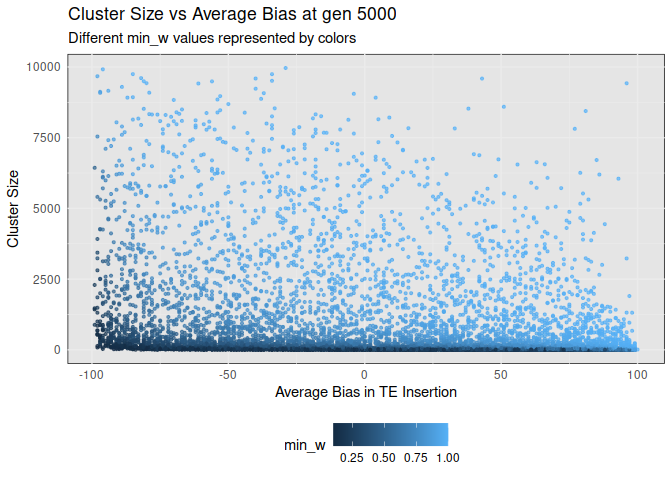
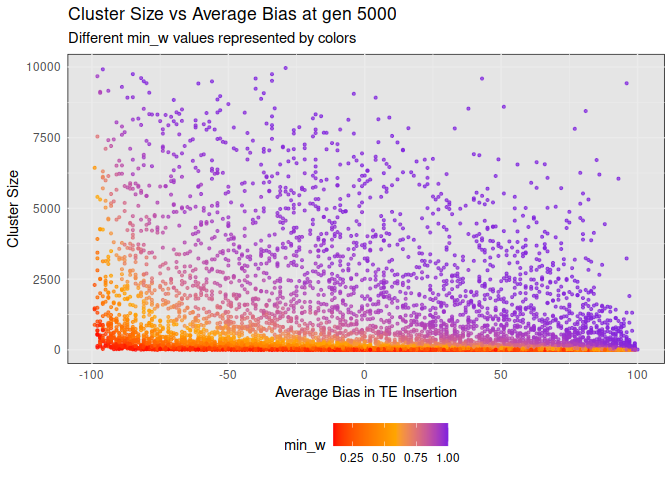
updated graph

diff --git a/Simulation-Results_Files/simulation_storm/sim_storm_minm_fit.md b/Simulation-Results_Files/simulation_storm/sim_storm_minm_fit.md
@@ -14,7 +14,6 @@ Shashank Pritam
   - [<span class="toc-section-number">3.1</span> Data
     Loading](#data-loading)
   - [<span class="toc-section-number">3.2</span> Plot 1](#plot-1)
-  - [<span class="toc-section-number">3.3</span> Plot 2](#plot-2)
 
 ## Introduction
 
@@ -62,10 +61,7 @@ library(tidyverse)
 <summary>Code</summary>
 
 ``` r
-library(RColorBrewer)
 library(ggplot2)
-library(patchwork)
-library(dplyr)
 theme_set(theme_bw())
 ```
 
@@ -132,49 +128,31 @@ df_gen_5000 <- df[df$gen == 5000,]
 <summary>Code</summary>
 
 ``` r
-# Plot avbias vs sampleid (Cluster Size) with min_w as color
 g_avbias_cluster_size <- ggplot(df_gen_5000, aes(x = avbias, y = sampleid, color = min_w)) +
   geom_point(alpha = 0.7, size = 0.8) +
   ylab("Cluster Size") +
   xlab("Average Bias in TE Insertion") +
-  labs(title = "Cluster Size vs Average Bias at gen 5000",
-       subtitle = "Different min_w values represented by colors") +
-  scale_color_gradient(name = "min_w") +
+  labs(
+    title = "Cluster Size vs Average Bias at gen 5000",
+    subtitle = "Different min_w values represented by colors"
+  ) +
+  scale_color_gradient2(
+    name = "min_w",
+    low = "red", 
+    mid = "orange", 
+    high = "blue", 
+    midpoint = median(df_gen_5000$min_w, na.rm = TRUE)
+  ) +
   theme_minimal() +
-  theme(legend.position = "bottom", panel.background = element_rect(fill="grey90"))
+  theme(
+    legend.position = "bottom", 
+    panel.background = element_rect(fill = "grey90")
+  )
 
 # Display the plot
-plot(g_avbias_cluster_size)
+print(g_avbias_cluster_size)
 ```
 
 </details>
 
 ![](sim_storm_minm_fit_files/figure-commonmark/unnamed-chunk-4-1.png)
-
-### Plot 2
-
-<details>
-<summary>Code</summary>
-
-``` r
-library(ggplot2)
-library(tidyverse)
-
-plot_3d_surface <- df_gen_5000 %>%
-  ggplot(aes(x = avbias, y = sampleid, z = min_w)) +
-  geom_tile(aes(fill = min_w), width = 0.1, height = 0.1) +
-  labs(title = "3D Surface Plot with Fitted Surface",
-       x = "Average Bias in TE Insertion",
-       y = "Sample ID",
-       z = "min_w") +
-  theme_minimal() +
-  theme(panel.grid = element_blank()) +
-  scale_fill_viridis_c()
-
-# Display the 3D surface plot
-print(plot_3d_surface)
-```
-
-</details>
-
-![](sim_storm_minm_fit_files/figure-commonmark/unnamed-chunk-5-1.png)
